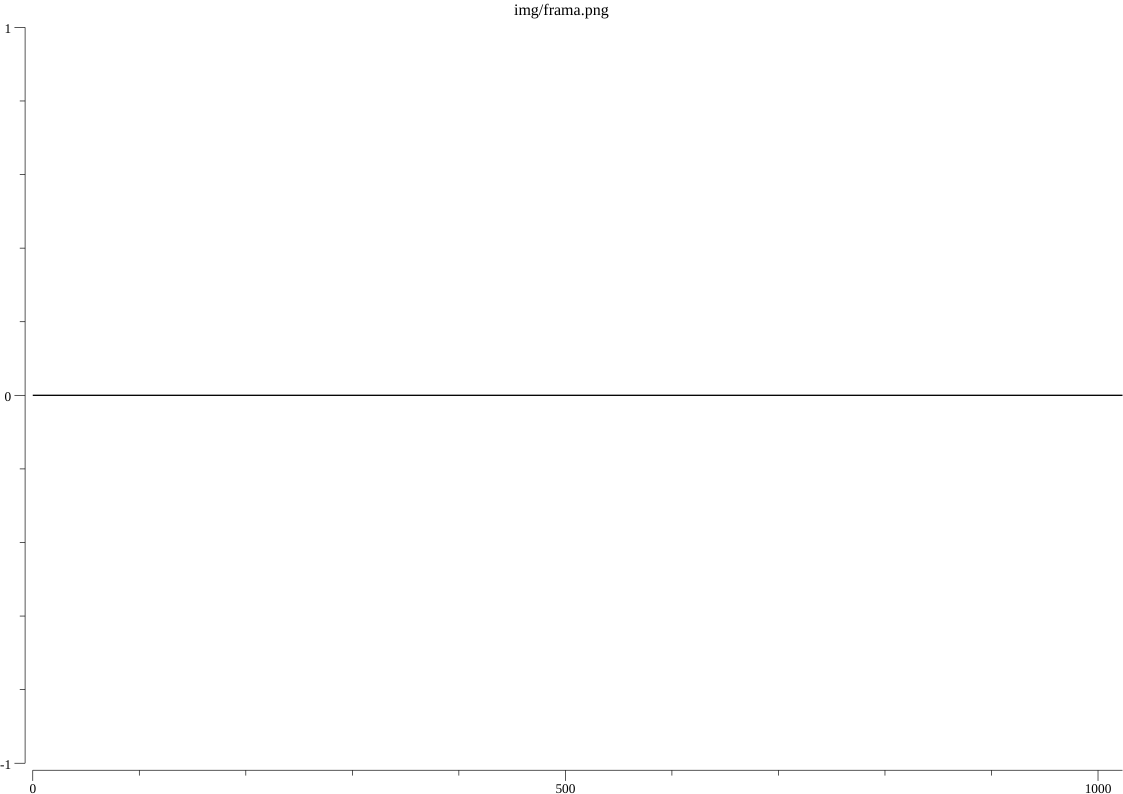
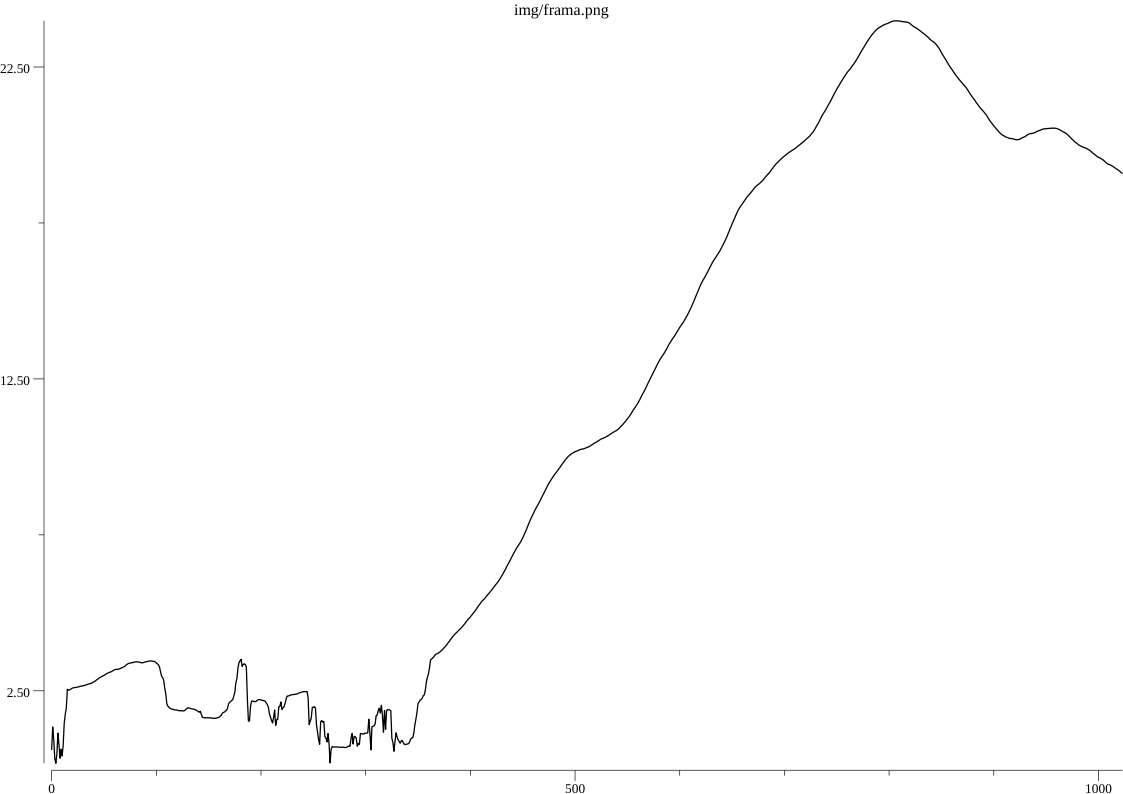
include laguerre_filter in README.md correct test image for frama

diff --git a/frama_test.go b/frama_test.go
@@ -10,6 +10,11 @@ func TestFRAMAGraph(t *testing.T) {
 	candles := go_timeseries_generator.GaussianOHLCVDefault(1024)
 	highs := make([]float64, len(candles))
 	lows := make([]float64, len(candles))
+	// fill in higs and low
+	for i := 0; i < len(candles); i++ {
+		highs[i] = candles[i].High
+		lows[i] = candles[i].Low
+	}
 	frama, err := FRAMA(highs, lows, 16)
 	if err != nil {
 		t.Error(err)

diff --git a/README.md b/README.md
@@ -3,23 +3,25 @@ A collection of John Ehlers technical analysis indicators written in pure go
 Every indicator includes tests and a graph on synthetic data.
 
 Indicators include:
-- Center of Gravity
+- FAMA
+- Laguerre Filter
+- FRAMA (Fractal adaptive moving average)
 - Cyber Cycle
+- Center of Gravity
 - Fisher Transform
 - Inverse FisherTransform
 - ReFlex
 - TrendFlex
 - MAMA (MESA adaptive moving average)
-- FAMA
-- FRAMA (Fractal adaptive moving average)
 
 ### Images:
 With synthetic data from [MathisWellmann/timeseries_generator](https://github.com/MathisWellmann/timeseries_generator)
 
 ![fama](img/fama.png)
+![laguerre_filter](img/laguerre_filter.png)
+![frama](img/frama.png)
 ![cyber_cycle](img/cyber_cycle.png)
 ![center_of_gravity](img/center_of_gravity.png)
-![frama](img/frama.png)
 ![mama](img/mama.png)
 ![re_flex](img/re_flex.png)
 ![trend_flex](img/trend_flex.png)
